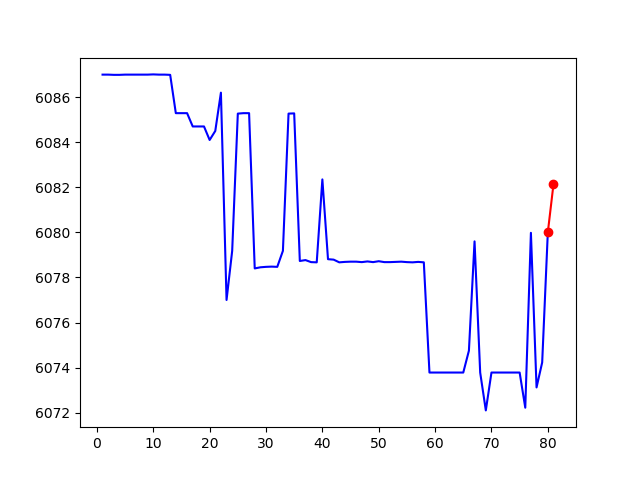
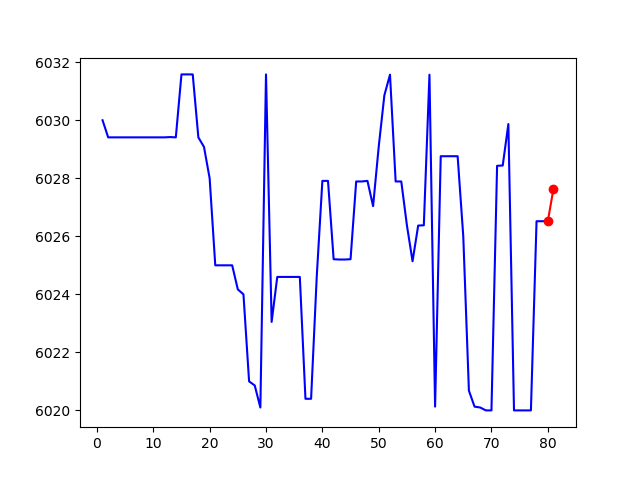
v2.0

diff --git a/Block/GUI.py b/Block/GUI.py
@@ -1,0 +1,141 @@
+import tkinter
+from tkinter import messagebox, Toplevel, Frame, ttk
+import pymongo
+from price_predict import *
+
+class Page(object):
+    def __init__(self):
+        self.root = tkinter.Tk()
+        self.root.title("区块链价格预测系统")
+        self.root.geometry('370x370')
+        self.dataGet_button = tkinter.Button(self.root, command=self.dataGet, text='获取数据', width=25, height=10)
+        self.dataAnalysis_button = tkinter.Button(self.root, command=self.dataAnalysis, text='分析数据', width=25, height=10)
+        self.Retain1_button = tkinter.Button(self.root, command=self.Predict, text='保留', width=25, height=10)
+        self.Retain2_button = tkinter.Button(self.root, command=self.Retain2, text='保留', width=25, height=10)
+    def GuiArrang(self):
+        self.dataGet_button.place(x=0, y=0)
+        self.dataAnalysis_button.place(x=185, y=0)
+        self.Retain1_button.place(x=0, y=185)
+        self.Retain2_button.place(x=185, y=185)
+    def dataGet(self):
+        self.top = Toplevel()
+        self.top.title = ('数据获取')
+        self.top.geometry('800x700')
+        tmp = None
+        def arrang():
+            currency1Chosen.place(x=60, y=20)
+            currency1Chosen.current(0)
+            currency2Chosen.place(x=280, y=20)
+            currency2Chosen.current(0)
+            label_to.place(x=220, y=20)
+            Submit_button.place(x=500, y=20)
+            Drawing_button.place(x=600, y=20)
+            self.tree.column("a", width=200, anchor="center")
+            self.tree.column("b", width=90, anchor="center")
+            self.tree.column("c", width=110, anchor="center")
+            self.tree.column("d", width=130, anchor="center")
+            self.tree.column("e", width=180, anchor="center")
+            self.tree.heading("a", text="订单时间")
+            self.tree.heading("b", text="买卖类型")
+            self.tree.heading("c", text="币种单价")
+            self.tree.heading("d", text="成交币种数量")
+            self.tree.heading("e", text="订单总额")
+            self.tree.place(x=38, y=80)
+            vbar.place(x=695, y=30, height=550)
+
+        def dataCrawl():
+            rootUrl = 'https://data.gateio.co/api2/1/tradeHistory/'
+            currency1.get()
+            url = rootUrl + currency1.get() + '_' +currency2.get()
+            browsers = requests.get(url).json()
+            items = None
+            if (browsers["result"] == "true"):
+                items = browsers["data"]
+            else:
+                messagebox.showinfo(title='error', message='Please Retry')
+            for _ in map(self.tree.delete, self.tree.get_children("")):
+                pass
+            for item in items:
+                self.tree.insert("", "end", values=(item["date"], item["type"], item["rate"], item["amount"], item["total"]))
+            Drawing_button['state'] = 'active'
+        def dataDrawing():
+            messagebox.showinfo(title='Waiting~', message='I am drawing!')
+        currency1 = tkinter.StringVar()
+        currency2 = tkinter.StringVar()
+        currency1Chosen = ttk.Combobox(self.top, width=12, textvariable=currency1)
+        currency1Chosen['values'] = ('eth', 'btc')
+        label_to = tkinter.Label(self.top, text='to')
+        currency2Chosen = ttk.Combobox(self.top, width=12, textvariable=currency2)
+        currency2Chosen['values'] = ('usdt', 'cnyx')
+        Submit_button = tkinter.Button(self.top, command=dataCrawl, text='开始抓取')
+        Drawing_button = tkinter.Button(self.top, command=dataDrawing, text='绘制图表', state='disabled')
+        self.tree = ttk.Treeview(self.top, show="headings", height=28, columns=("a", "b", "c", "d", "e"))
+        vbar = ttk.Scrollbar(self.tree, orient='vertical', command=self.tree.yview)
+        self.tree.configure(yscrollcommand=vbar.set)
+        arrang()
+
+    def dataAnalysis(self):
+        pass
+    def Predict(self):
+        self.top = Toplevel()
+        self.top.title = ('数据获取')
+        self.top.geometry('800x700')
+        ave_price_show = tkinter.StringVar()
+        origin_price_data_show = tkinter.StringVar()
+        predicted_price_show = tkinter.StringVar()
+        def price_predict():
+            url = 'https://data.gateio.co/api2/1/tradeHistory/btc_usdt'
+            data = []
+            load_btc_data(url, data)
+            data_process(data)
+            origin_price_data = copy.deepcopy(np.array(data).T[1])
+            # 对数据归一化
+            new_btc_data, max, min = data_nornalization(data)
+            new_btc_data = np.array(new_btc_data).reshape((1, 80, 4))
+            ave_price = origin_price_data.mean()
+            # 预测价格
+            result = predict(new_btc_data)
+            predicted_price = result[0][0] * (max[1] - min[1]) + min[1]
+            ave_price_show.set('最新80笔交易的平均价格:' + str(ave_price))
+            origin_price_data_show.set('当前最新价格:' + str(origin_price_data[-1]))
+            predicted_price_show.set('预测的下一次交易的价格:' + str(predicted_price))
+
+            print('最新80笔交易的平均价格:{}'.format(ave_price))
+            print('当前最新价格：{}'.format(origin_price_data[-1]))
+            print('预测的下一次交易的价格:{}'.format(predicted_price))
+            # 可视化
+            l1 = range(1, len(origin_price_data) + 1)
+            plt.plot(l1, origin_price_data, 'b-', color='blue')
+            l2 = [80, 81]
+            predict_data = [origin_price_data[-1], predicted_price]
+            plt.plot(l2, predict_data, 'b-o', color='red')
+            image_name = 'predicted_price.png'
+            plt.savefig(image_name)
+            image = Image.open(image_name)
+            image = ImageTk.PhotoImage(image)
+            imgLabel.config(image=image)
+            imgLabel.image = image
+
+        B = tkinter.Button(self.top, text='预测下一次交易的价格', command=price_predict)
+        B.pack()
+        l_ave_price = tkinter.Label(self.top, textvariable=ave_price_show)
+        l_origin_price_data = tkinter.Label(self.top, textvariable=origin_price_data_show)
+        l_predicted_price = tkinter.Label(self.top, textvariable=predicted_price_show)
+        imgLabel = tkinter.Label(self.top)
+        l_ave_price.pack()
+        l_origin_price_data.pack()
+        l_predicted_price.pack()
+        imgLabel.pack()
+    def Retain2(self):
+        pass
+
+
+
+
+def main():
+    L = Page()
+    L.GuiArrang()
+    tkinter.mainloop()
+
+if __name__ == '__main__':
+    main()

diff --git a/Block/price_predict.py b/Block/price_predict.py
@@ -7,11 +7,11 @@ import matplotlib.pyplot as plt
 from PIL import ImageTk, Image
 
 import tkinter as tk
-ave_price, origin_price_data, predicted_price = 0,0,0
-ave_price_show = None
-origin_price_data_show = None
-predicted_price_show = None
-imgLabel = None
+# ave_price, origin_price_data, predicted_price = 0,0,0
+# ave_price_show = None
+# origin_price_data_show = None
+# predicted_price_show = None
+# imgLabel = None
 def load_btc_data(url, data):
     # 获取最新80笔交易的数据
     r = requests.get(url)
@@ -48,7 +48,9 @@ def price_predict():
     predicted_price = result[0][0] *(max[1]-min[1]) + min[1]
 
     global ave_price_show, origin_price_data_show, predicted_price_show, image_name, imgLabel
-
+    ave_price_show = tk.StringVar()
+    origin_price_data_show = tk.StringVar()
+    predicted_price_show = tk.StringVar()
     ave_price_show.set('最新80笔交易的平均价格:'+str(ave_price))
     origin_price_data_show.set('当前最新价格:' + str(origin_price_data[-1]))
     predicted_price_show.set('预测的下一次交易的价格:' + str(predicted_price))
@@ -93,5 +95,4 @@ def GUI():
     imgLabel.pack()
     windows.mainloop()
 
-GUI()
 
